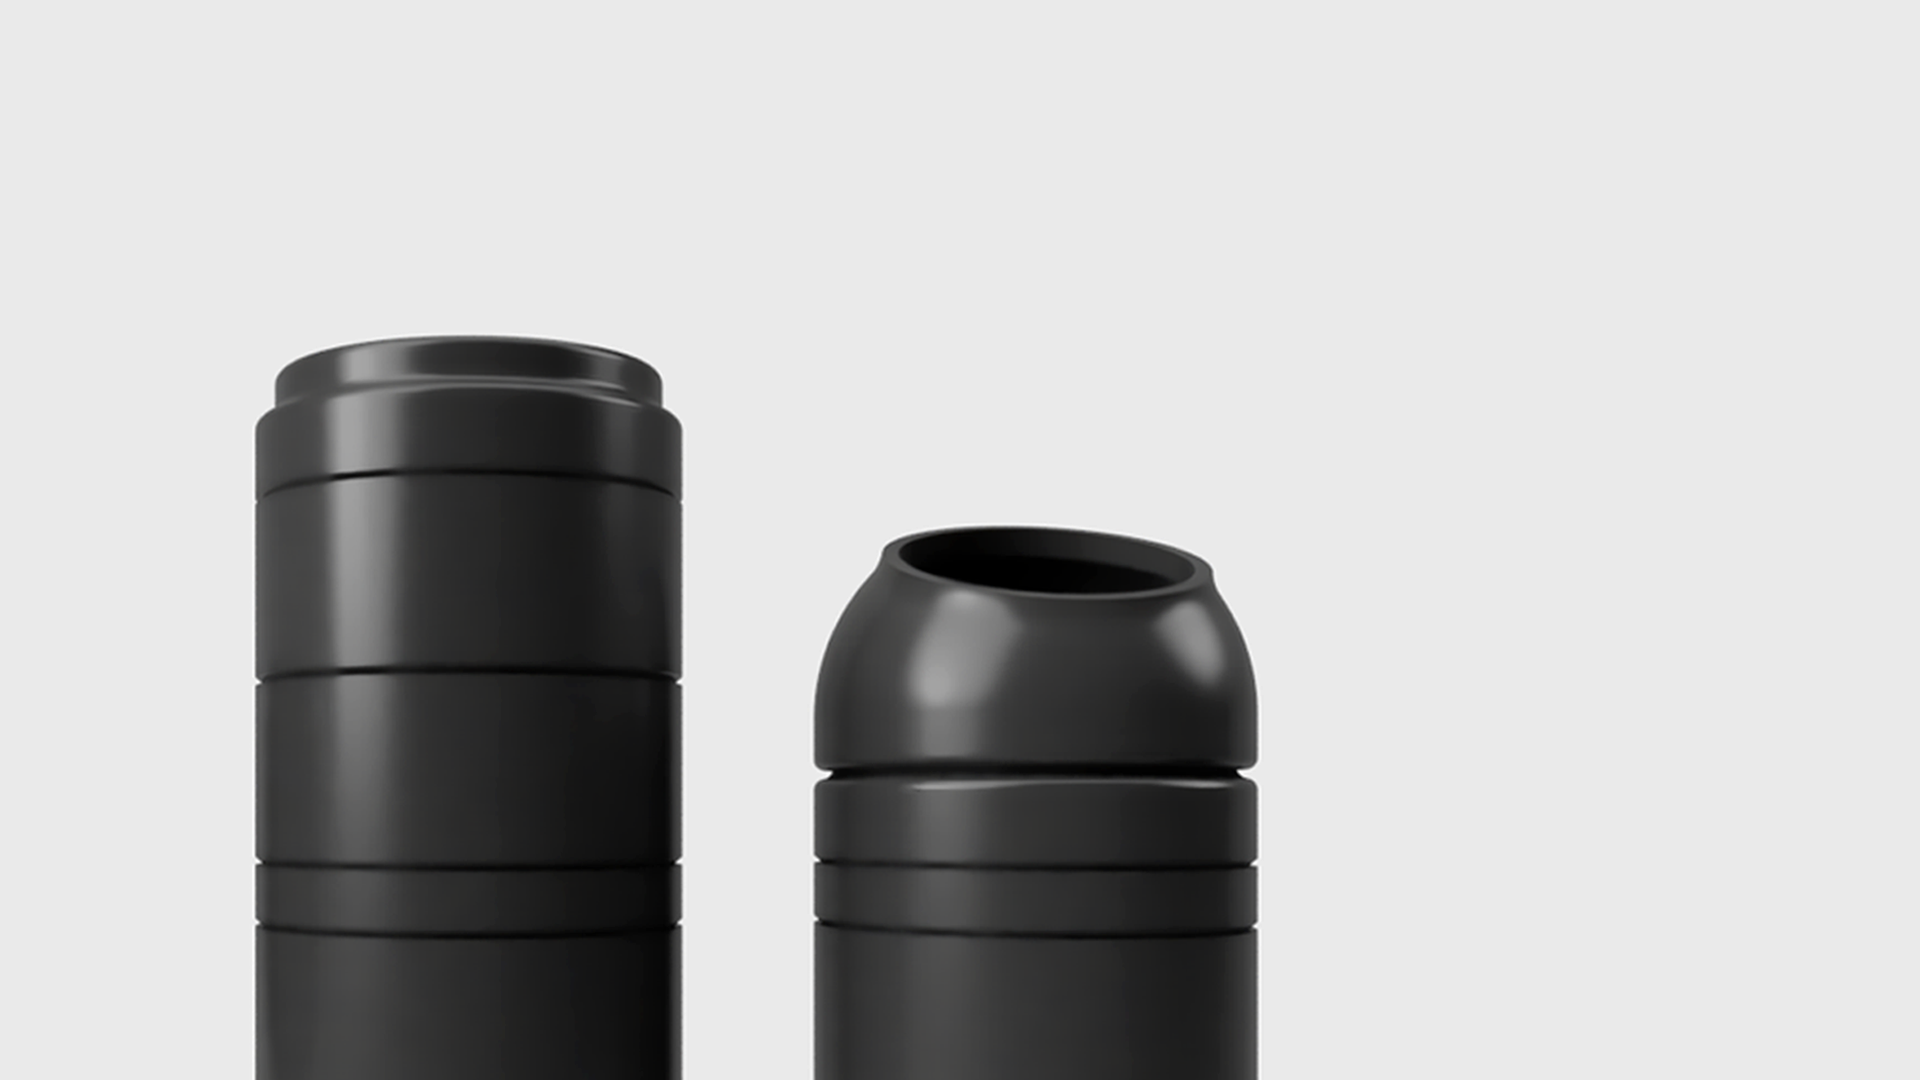
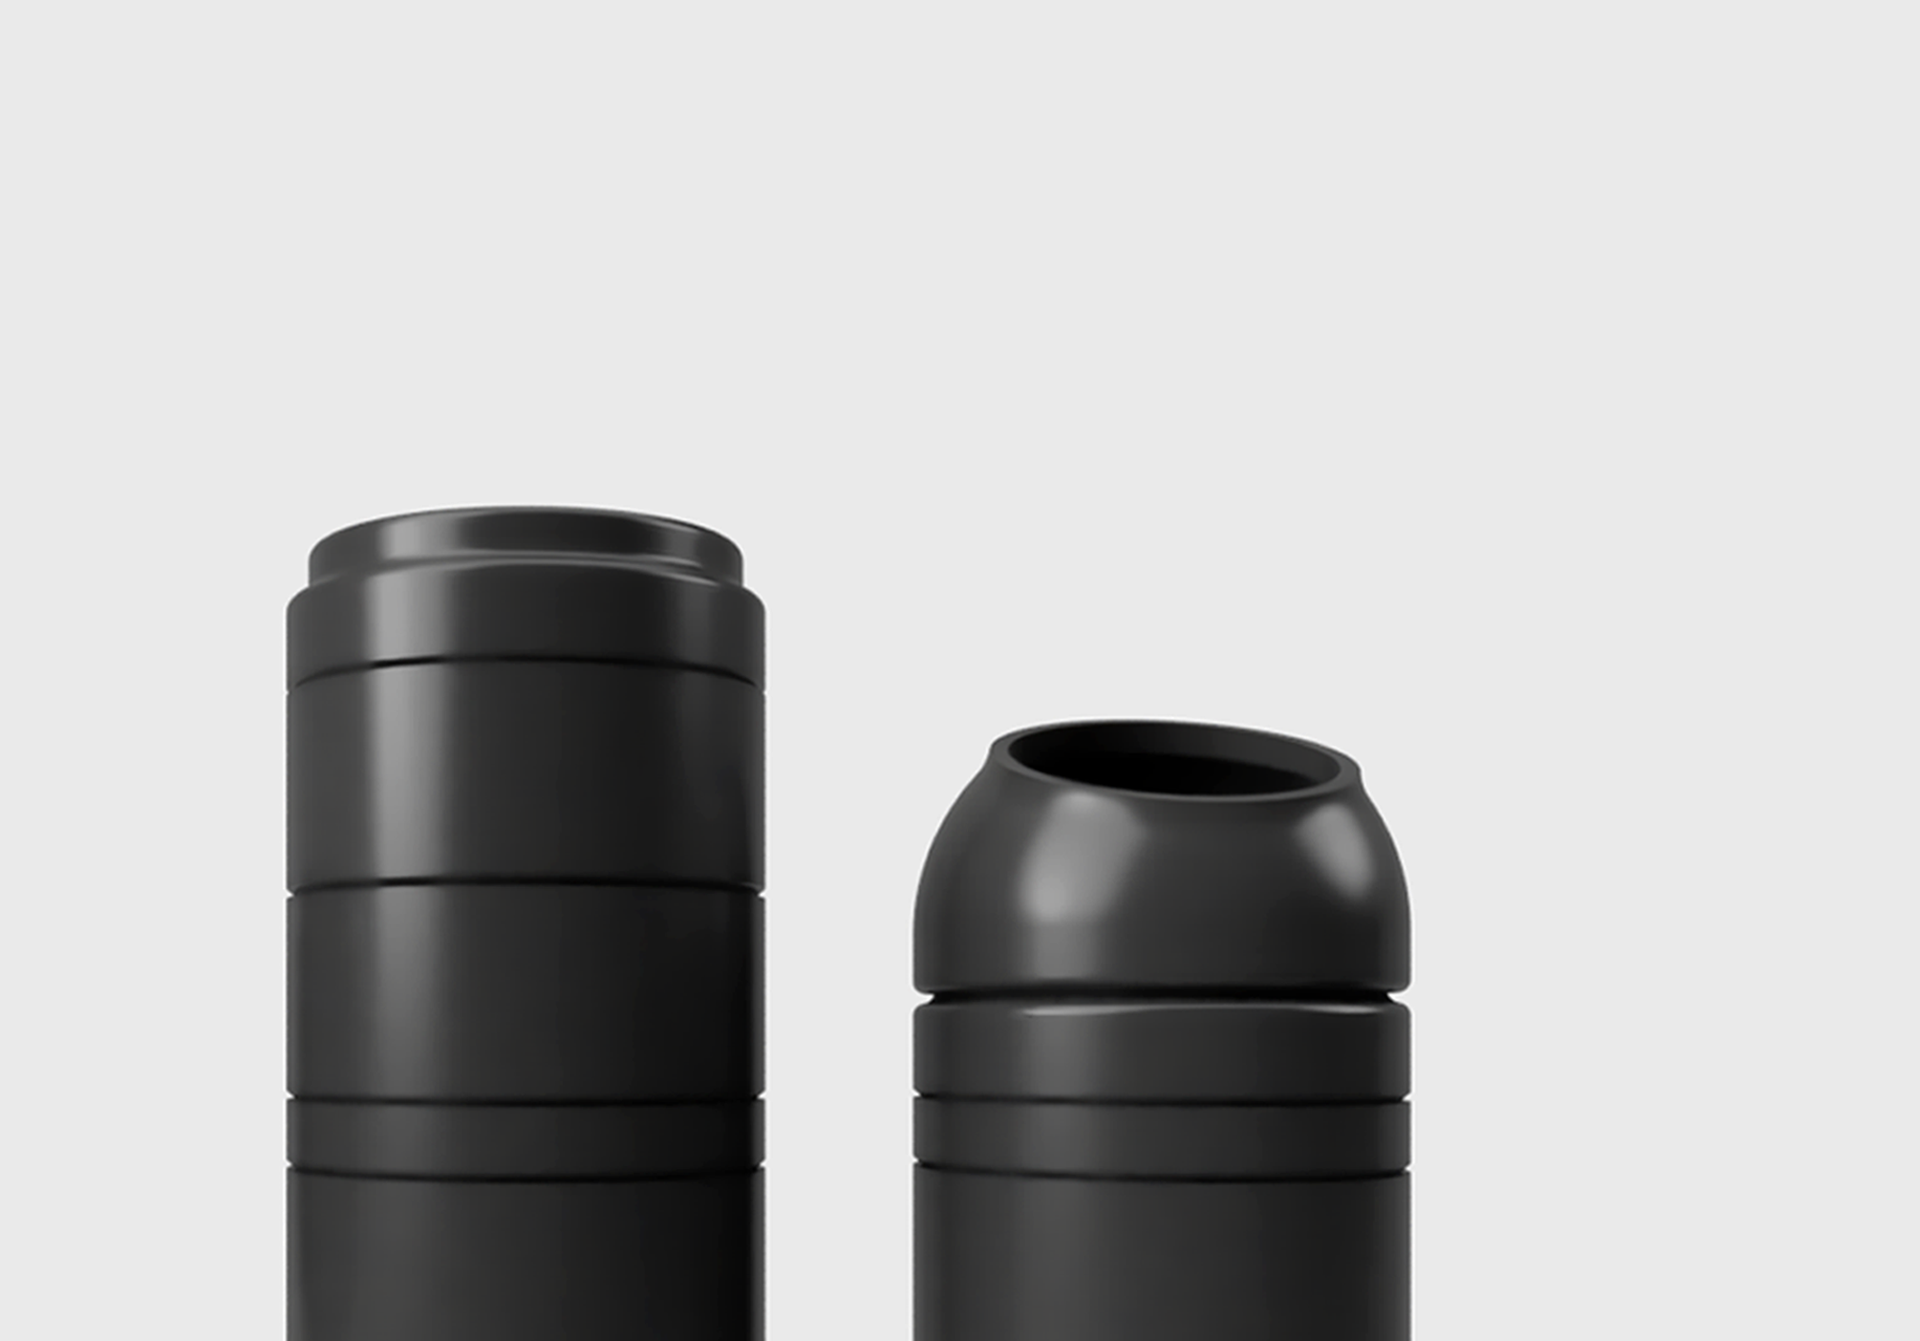
Files

Changed region(s): [[0.125, 0.3056, 0.75, 1.0]]

diff --git a/assets/css/styles.css b/assets/css/styles.css
@@ -80,7 +80,7 @@ body {
   padding-top: 80px;
   padding-bottom: 80px;
 }
-@media (max-width: 550px) {
+@media (max-width: 600px) {
   .bio-section, .site-footer, section, .top {
     padding-top: 40px;
     padding-bottom: 40px;
@@ -121,7 +121,7 @@ html {
   scroll-behavior: smooth;
   box-sizing: border-box;
 }
-@media (max-width: 550px) {
+@media (max-width: 600px) {
   html {
     font-size: 14px;
   }
@@ -218,6 +218,12 @@ select {
   padding-top: 60px;
   padding-bottom: 80px;
 }
+
+@media (max-width: 600px) {
+  .top {
+    padding-top: 30;
+  }
+}
 .top__left {
   display: flex;
   align-items: center;
@@ -229,7 +235,7 @@ select {
   border-radius: 50%;
   object-fit: cover;
 }
-@media (max-width: 550px) {
+@media (max-width: 600px) {
   .top__avatar {
     width: 40px;
     height: 40px;
@@ -248,7 +254,7 @@ select {
   flex-wrap: wrap;
   padding-top: 15px;
 }
-@media (max-width: 550px) {
+@media (max-width: 600px) {
    .top__right, .top .links {
     gap: 20px;
   }
@@ -296,7 +302,7 @@ select {
   letter-spacing: 1px;
   text-align: center;
 }
-@media (max-width: 550px) {
+@media (max-width: 600px) {
   .eyebrow {
     text-align: left;
     margin-left: 0;
@@ -309,12 +315,18 @@ select {
   line-height: 4.4rem;
   text-align: center;
 }
-@media (max-width: 550px) {
+
+@media (max-width: 800px) {
   .overview {
-    text-align: left;
     font-size: 3.2rem;
     letter-spacing: -0.0375rem;
     line-height: 3.52rem;
+  }
+}
+
+@media (max-width: 600px) {
+  .overview {
+    text-align: left;
   }
 }
 
@@ -335,7 +347,7 @@ section hr {
   border: none;
   height: 160px;
 }
-@media (max-width: 550px) {
+@media (max-width: 600px) {
   section hr {
     height: 80px;
   }
@@ -565,7 +577,7 @@ a.cta-project:hover {
 }
 
 
-@media only screen and (max-width: 550px) {
+@media only screen and (max-width: 600px) {
   .slider-controls {
   justify-content: flex-start;
   margin-bottom: 20px;
@@ -578,6 +590,10 @@ a.cta-project:hover {
 
   section p {
   margin-bottom: 20px;
+  }
+
+  div.boxed p, div.boxed h2 {
+    margin-left: 0px;
   }
 
   
